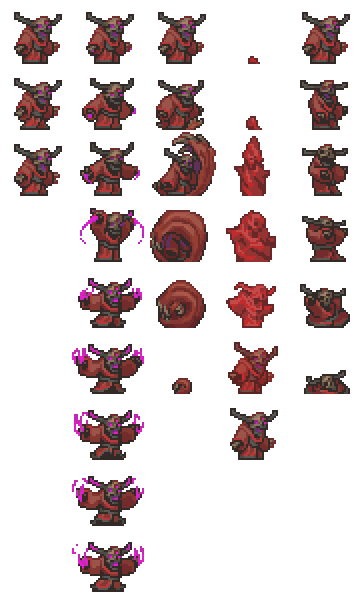
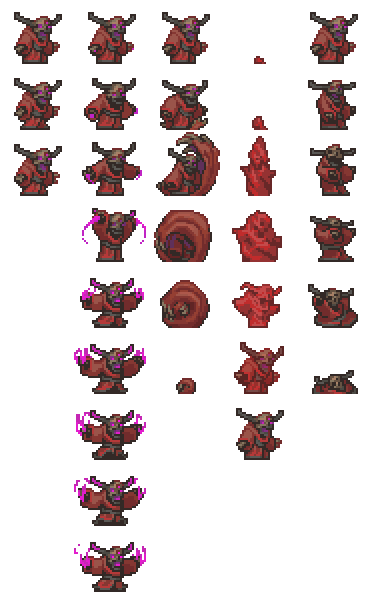
NPC bestiary animation fixes and more

diff --git a/NPCs/Cystal/Cystal_Shield.cs b/NPCs/Cystal/Cystal_Shield.cs
@@ -13,6 +13,8 @@ namespace SpiritMod.NPCs.Cystal
 		private Vector2 Location;
 		private Vector2 Location2;
 
+		public override void SetStaticDefaults() => DisplayName.SetDefault("Cystal Shield");
+
 		public override void SetDefaults()
 		{
 			NPC.aiStyle = -1;
@@ -31,8 +33,6 @@ namespace SpiritMod.NPCs.Cystal
 			NPC.DeathSound = SoundID.DD2_SkeletonHurt;
 		}
 
-		public override void SetStaticDefaults() => DisplayName.SetDefault("Cystal Shield");
-
 		public override void ModifyHitByProjectile(Projectile projectile, ref int damage, ref float knockback, ref bool crit, ref int hitDirection)
 		{
 			if (!projectile.minion)
@@ -41,26 +41,19 @@ namespace SpiritMod.NPCs.Cystal
 			damage = 0;
 		}
 
-		public override void ModifyHitByItem(Player player, Item item, ref int damage, ref float knockback, ref bool crit)
-		{
-			damage = 0;
-		}
+		public override void ModifyHitByItem(Player player, Item item, ref int damage, ref float knockback, ref bool crit) => damage = 0;
 
-		public override bool CheckDead()
-		{
-			return false;
-		}
+		public override bool CheckDead() => false;
 
-		public override bool? DrawHealthBar(byte hbPos, ref float scale, ref Vector2 Pos)
-		{
-			return false;
-		}
+		public override bool? DrawHealthBar(byte hbPos, ref float scale, ref Vector2 Pos) => false;
+
+		public override void ModifyHoverBoundingBox(ref Rectangle boundingBox) => boundingBox = Rectangle.Empty;
 
 		public override void AI()
 		{
 			Lighting.AddLight(NPC.position, 0.0149f, 0.0142f, 0.0207f);
 			NPC.TargetClosest(true);
-			Player player = Main.player[NPC.target];
+
 			NPC.ai[2]++;
 
 			if (NPC.ai[0] == 0)
@@ -117,14 +110,15 @@ namespace SpiritMod.NPCs.Cystal
 				Vector2 vector2_11 = dust2.velocity + vector2_2 * 2f;
 				dust2.velocity = vector2_11;
 			}
+
 			int num9 = (int)(NPC.frameCounter + 1);
 			NPC.frameCounter = num9;
 			if (num9 >= 40)
 			{
 				NPC.frameCounter = 0;
 			}
-			//npc.frame = npc.frameCounter / 5;
 		}
+
 		public override void PostDraw(SpriteBatch spriteBatch, Vector2 screenPos, Color drawColor) => GlowmaskUtils.DrawNPCGlowMask(spriteBatch, NPC, Mod.Assets.Request<Texture2D>("NPCs/Cystal/Cystal_Shield").Value, screenPos);
 
 		public override void HitEffect(int hitDirection, double damage)

diff --git a/NPCs/Dead_Scientist/Dead_Scientist.cs b/NPCs/Dead_Scientist/Dead_Scientist.cs
@@ -36,6 +36,7 @@ namespace SpiritMod.NPCs.Dead_Scientist
 			NPC.damage = 28;
 			NPC.lavaImmune = false;
 			NPC.HitSound = SoundID.NPCHit1;
+			NPC.DeathSound = SoundID.NPCDeath2;
 			AIType = 3;
 		}
 
@@ -55,12 +56,17 @@ namespace SpiritMod.NPCs.Dead_Scientist
 			NPC.spriteDirection = NPC.direction;
 			pukeTimer++;
 			
-			if (Main.rand.NextBool(300))
-				SoundEngine.PlaySound(SoundID.Item9, NPC.Center);
+			if (Main.rand.NextBool(300) && !isPuking && Main.netMode != NetmodeID.Server)
+				SoundEngine.PlaySound((Main.rand.NextFromList(SoundID.Zombie1, SoundID.Zombie2)) with { Volume = .5f, PitchVariance = .5f }, NPC.Center);
 			
-			if (Vector2.Distance(player.Center, NPC.Center) < 300f && !isPuking && player.position.Y > NPC.position.Y - 100 && Collision.CanHitLine(NPC.Center, 0, 0, Main.player[NPC.target].Center, 0, 0) && delayTimer < 180) 
+			if (Vector2.Distance(player.Center, NPC.Center) < 300f && !isPuking && player.position.Y > NPC.position.Y - 100 && Collision.CanHitLine(NPC.Center, 0, 0, Main.player[NPC.target].Center, 0, 0) && delayTimer < 180 && NPC.velocity.Y == 0) 
 			{
-				SoundEngine.PlaySound(SoundID.Item9, NPC.Center);
+				if (Main.netMode != NetmodeID.Server)
+				{
+					SoundEngine.PlaySound(SoundID.NPCDeath13, NPC.Center);
+					SoundEngine.PlaySound(SoundID.NPCHit13 with { Volume = .5f, PitchVariance = .5f }, NPC.Center);
+				}
+
 				NPC.frameCounter = 0;
 				isPuking = true;
 			}
@@ -77,8 +83,10 @@ namespace SpiritMod.NPCs.Dead_Scientist
 			if (!Collision.CanHitLine(NPC.Center, 0, 0, Main.player[NPC.target].Center, 0, 0))
 				isPuking = false;
 			
-			if (isPuking && NPC.frameCounter >= 14)
+			if (isPuking && NPC.frameCounter >= 18)
 			{
+				if (pukeTimer % 14 == 0 && Main.netMode != NetmodeID.Server)
+					SoundEngine.PlaySound(SoundID.NPCHit13 with { Volume = .5f, PitchVariance = .5f }, NPC.Center);
 				if (pukeTimer % 2 == 0 && Main.netMode != NetmodeID.MultiplayerClient)
 				{
 					float num5 = 8f;

diff --git a/NPCs/Boulder_Termagant/Boulder_Termagant.cs b/NPCs/Boulder_Termagant/Boulder_Termagant.cs
@@ -247,8 +247,9 @@ namespace SpiritMod.NPCs.Boulder_Termagant
 			float addHeight = 4f;
 			Color color1 = Lighting.GetColor((int)(NPC.position.X + NPC.width * 0.5) / 16, (int)((NPC.position.Y + NPC.height * 0.5) / 16.0));
 			var effects = NPC.direction == -1 ? SpriteEffects.None : SpriteEffects.FlipHorizontally;
+			
 			spriteBatch.Draw(TextureAssets.Npc[NPC.type].Value, NPC.Bottom - screenPos + new Vector2((float)(-TextureAssets.Npc[NPC.type].Value.Width * NPC.scale / 2.0 + vector2_3.X * (double)NPC.scale), (float)(-TextureAssets.Npc[NPC.type].Value.Height * (double)NPC.scale / Main.npcFrameCount[NPC.type] + 4.0 + vector2_3.Y * NPC.scale) + addHeight + NPC.gfxOffY), NPC.frame,
-							NPC.GetNPCColorTintedByBuffs(drawColor), NPC.rotation, NPC.frame.Size() / 2, NPC.scale, effects, 0);
+				NPC.GetNPCColorTintedByBuffs(drawColor), NPC.rotation, NPC.frame.Size() / 2, NPC.scale, effects, 0);
 			Main.spriteBatch.Draw(Mod.Assets.Request<Texture2D>("NPCs/Boulder_Termagant/Boulder_Termagant_Glow").Value, NPC.Bottom - screenPos + new Vector2((float)(-TextureAssets.Npc[NPC.type].Value.Width * NPC.scale / 2.0 + vector2_3.X * (double)NPC.scale), (-TextureAssets.Npc[NPC.type].Value.Height * NPC.scale / Main.npcFrameCount[NPC.type] + 4.0f + vector2_3.Y * NPC.scale) + addHeight + NPC.gfxOffY), NPC.frame, new Color(r - NPC.alpha, byte.MaxValue - NPC.alpha, g - NPC.alpha, b - NPC.alpha), NPC.rotation, vector2_3, NPC.scale, effects, 0.0f);
 			float num = (float)(0.25 + (NPC.GetAlpha(color1).ToVector3() - new Vector3(1.25f)).Length() * 0.25);
 			for (int index = 0; index < 16; ++index)

diff --git a/NPCs/Boss/Occultist/_OccultistBoss_Visuals.cs b/NPCs/Boss/Occultist/_OccultistBoss_Visuals.cs
@@ -324,13 +324,15 @@ namespace SpiritMod.NPCs.Boss.Occultist
 
 		#region Drawing
 
-		private float DrawTimer => (float)Math.Sin(Main.GlobalTimeWrappedHourly * 3) / 2 + 0.5f;
+		private static float DrawTimer => (float)Math.Sin(Main.GlobalTimeWrappedHourly * 3) / 2 + 0.5f;
 
 		private void DrawTex(SpriteBatch sB, Texture2D tex, Color color, Vector2 screenPos, float scale = 1f, Vector2? position = null)
 		{
 			var effects = NPC.direction == 1 ? SpriteEffects.None : SpriteEffects.FlipHorizontally;
+			Rectangle drawFrame = new Rectangle(NPC.frame.X, NPC.frame.Y, NPC.frame.Width - 2, NPC.frame.Height - 2);
+
 			sB.Draw(tex, (position ?? NPC.Center) - screenPos + new Vector2(0, NPC.gfxOffY),
-				NPC.frame, color * NPC.Opacity, NPC.rotation, NPC.frame.Size() / 2, NPC.scale, effects, 0);
+				drawFrame, color * NPC.Opacity, NPC.rotation, drawFrame.Size() / 2, NPC.scale, effects, 0);
 		}
 
 		public override bool PreDraw(SpriteBatch spriteBatch, Vector2 screenPos, Color drawColor)
@@ -338,7 +340,7 @@ namespace SpiritMod.NPCs.Boss.Occultist
 			Color glowColor = Color.Lerp(Color.Red, Color.Magenta, DrawTimer);
 			Matrix matrix = NPC.IsABestiaryIconDummy ? Main.UIScaleMatrix : Main.GameViewMatrix.ZoomMatrix;
 
-			if (NPC.frame.Width > 72) //workaround for framing not working properly on first tick
+			if (NPC.frame.Width > 74) //workaround for framing not working properly on first tick
 			{
 				frame = new Point(3, 0);
 				NPC.FindFrame();

diff --git a/NPCs/Snaptrapper/Snaptrapper.cs b/NPCs/Snaptrapper/Snaptrapper.cs
@@ -101,6 +101,7 @@ namespace SpiritMod.NPCs.Snaptrapper
 		public override void FindFrame(int frameHeight)
 		{
 			float distance = NPC.DistanceSQ(Main.player[NPC.target].Center);
+			int attackFrameStart = 7;
 
 			if (!chargePhase && distance > 62 * 62 && !NPC.IsABestiaryIconDummy)
 			{
@@ -110,8 +111,8 @@ namespace SpiritMod.NPCs.Snaptrapper
 					frame++;
 				}
 
-				if (frame > 10 || frame < 7)
-					frame = 7;
+				if (frame > 10 || frame < attackFrameStart)
+					frame = attackFrameStart;
 			}
 			else if (!chargePhase)
 			{
@@ -121,7 +122,7 @@ namespace SpiritMod.NPCs.Snaptrapper
 					frame++;
 				}
 
-				if (frame >= 7)
+				if (frame >= attackFrameStart)
 					frame = 0;
 			}
 

diff --git a/Items/Sets/SpiritBiomeDrops/StoneOfSpiritsPast.cs b/Items/Sets/SpiritBiomeDrops/StoneOfSpiritsPast.cs
@@ -8,10 +8,9 @@ namespace SpiritMod.Items.Sets.SpiritBiomeDrops
 	{
 		public override void SetStaticDefaults()
 		{
-			DisplayName.SetDefault("Stone Of Spirits Past");
+			DisplayName.SetDefault("Stone of Spirits Past");
 			Tooltip.SetDefault("Creates orbiting souls to hurt nearby enemies");
 		}
-
 
 		public override void SetDefaults()
 		{
@@ -23,9 +22,6 @@ namespace SpiritMod.Items.Sets.SpiritBiomeDrops
 			Item.defense = 1;
 		}
 
-		public override void UpdateAccessory(Player player, bool hideVisual)
-		{
-			player.GetSpiritPlayer().SoulStone = true;
-		}
+		public override void UpdateAccessory(Player player, bool hideVisual) => player.GetSpiritPlayer().SoulStone = true;
 	}
 }

diff --git a/NPCs/BottomFeeder/Feeder1.cs b/NPCs/BottomFeeder/Feeder1.cs
@@ -1,5 +1,6 @@
 using Microsoft.Xna.Framework;
 using Terraria;
+using Terraria.Audio;
 using Terraria.ID;
 using Terraria.ModLoader;
 
@@ -75,6 +76,7 @@ namespace SpiritMod.NPCs.BottomFeeder
 			}
 
 		}
+
 		public override bool OnTileCollide(Vector2 oldVelocity)
 		{
 			const int DustType = DustID.Blood;
@@ -84,6 +86,12 @@ namespace SpiritMod.NPCs.BottomFeeder
 				Dust.NewDust(Projectile.position, Projectile.width, Projectile.height, DustType, 2.5f * 1, -2.5f, 0, Color.White, 0.7f);
 			}
 			return true;
+		}
+
+		public override void Kill(int timeLeft)
+		{
+			if (Main.netMode != NetmodeID.Server)
+				SoundEngine.PlaySound(SoundID.NPCHit1, Projectile.Center);
 		}
 	}
 }

diff --git a/NPCs/BottomFeeder/BottomFeeder.cs b/NPCs/BottomFeeder/BottomFeeder.cs
@@ -73,11 +73,11 @@ namespace SpiritMod.NPCs.BottomFeeder
 					NPC.velocity.Y = 10f;
 				}
 
-				if (++shoottimer == 40)
-					SoundEngine.PlaySound(SoundID.NPCDeath13, NPC.Center);
-
-				if (shoottimer >= 40 && shoottimer < 96)
+				if (++shoottimer >= 40 && shoottimer < 96)
 				{
+					if ((shoottimer % 25) == 0 && Main.netMode != NetmodeID.Server)
+						SoundEngine.PlaySound(SoundID.NPCDeath13, NPC.Center);
+
 					if (Main.rand.NextBool(3) && Main.netMode != NetmodeID.MultiplayerClient)
 					{
 						int bloodproj = Main.rand.Next(new int[] { ModContent.ProjectileType<Feeder1>(), ModContent.ProjectileType<Feeder2>(), ModContent.ProjectileType<Feeder3>() });

diff --git a/NPCs/Boss/SteamRaider/SteamRaiderBody2.cs b/NPCs/Boss/SteamRaider/SteamRaiderBody2.cs
@@ -2,13 +2,20 @@
 using Microsoft.Xna.Framework.Graphics;
 using Terraria;
 using Terraria.GameContent;
+using Terraria.ID;
 using Terraria.ModLoader;
 
 namespace SpiritMod.NPCs.Boss.SteamRaider
 {
 	public class SteamRaiderBody2 : SteamRaiderBody
 	{
-		public override void SetStaticDefaults() => DisplayName.SetDefault("Starplate Voyager");
+		public override void SetStaticDefaults()
+		{
+			DisplayName.SetDefault("Starplate Voyager");
+
+			NPCID.Sets.NPCBestiaryDrawModifiers bestiaryData = new(0) { Hide = true };
+			NPCID.Sets.NPCBestiaryDrawOffset.Add(Type, bestiaryData);
+		}
 
 		public override void SetDefaults()
 		{

diff --git a/NPCs/Reach/Blubby.cs b/NPCs/Reach/Blubby.cs
@@ -14,7 +14,6 @@ namespace SpiritMod.NPCs.Reach
 			DisplayName.SetDefault("Blubby");
 			Main.npcFrameCount[NPC.type] = 2;
 			Main.npcCatchable[NPC.type] = true;
-			Main.npcFrameCount[NPC.type] = 2;
 			NPCID.Sets.CountsAsCritter[Type] = true;
 		}
 
@@ -62,7 +61,7 @@ namespace SpiritMod.NPCs.Reach
 
 		public override void FindFrame(int frameHeight)
 		{
-			if (NPC.velocity != Vector2.Zero)
+			if (NPC.velocity != Vector2.Zero || NPC.IsABestiaryIconDummy)
 			{
 				NPC.frameCounter += 0.12f;
 				NPC.frameCounter %= Main.npcFrameCount[NPC.type];

diff --git a/NPCs/Boss/SteamRaider/SteamRaiderHeadDeath.cs b/NPCs/Boss/SteamRaider/SteamRaiderHeadDeath.cs
@@ -11,7 +11,13 @@ namespace SpiritMod.NPCs.Boss.SteamRaider
 {
 	public class SteamRaiderHeadDeath : ModNPC
 	{
-		public override void SetStaticDefaults() => DisplayName.SetDefault("Starplate Voyager");
+		public override void SetStaticDefaults()
+		{
+			DisplayName.SetDefault("Starplate Voyager");
+
+			NPCID.Sets.NPCBestiaryDrawModifiers bestiaryData = new(0) { Hide = true };
+			NPCID.Sets.NPCBestiaryDrawOffset.Add(Type, bestiaryData);
+		}
 
 		public override void SetDefaults()
 		{

diff --git a/NPCs/ZombieVariants/DiverZombie.cs b/NPCs/ZombieVariants/DiverZombie.cs
@@ -97,7 +97,19 @@ namespace SpiritMod.NPCs.ZombieVariants
 			}
 		}
 
-		public override void FindFrame(int frameHeight) => NPC.frame.Y = frameHeight * frame;
+		public override void FindFrame(int frameHeight)
+		{
+			if (NPC.IsABestiaryIconDummy)
+			{
+				if (++frameTimer >= 10)
+				{
+					frameTimer = 0;
+					frame = ++frame % 3;
+				}
+			}
+
+			NPC.frame.Y = frameHeight * frame;
+		}
 
 		public override void ModifyNPCLoot(NPCLoot npcLoot)
 		{
